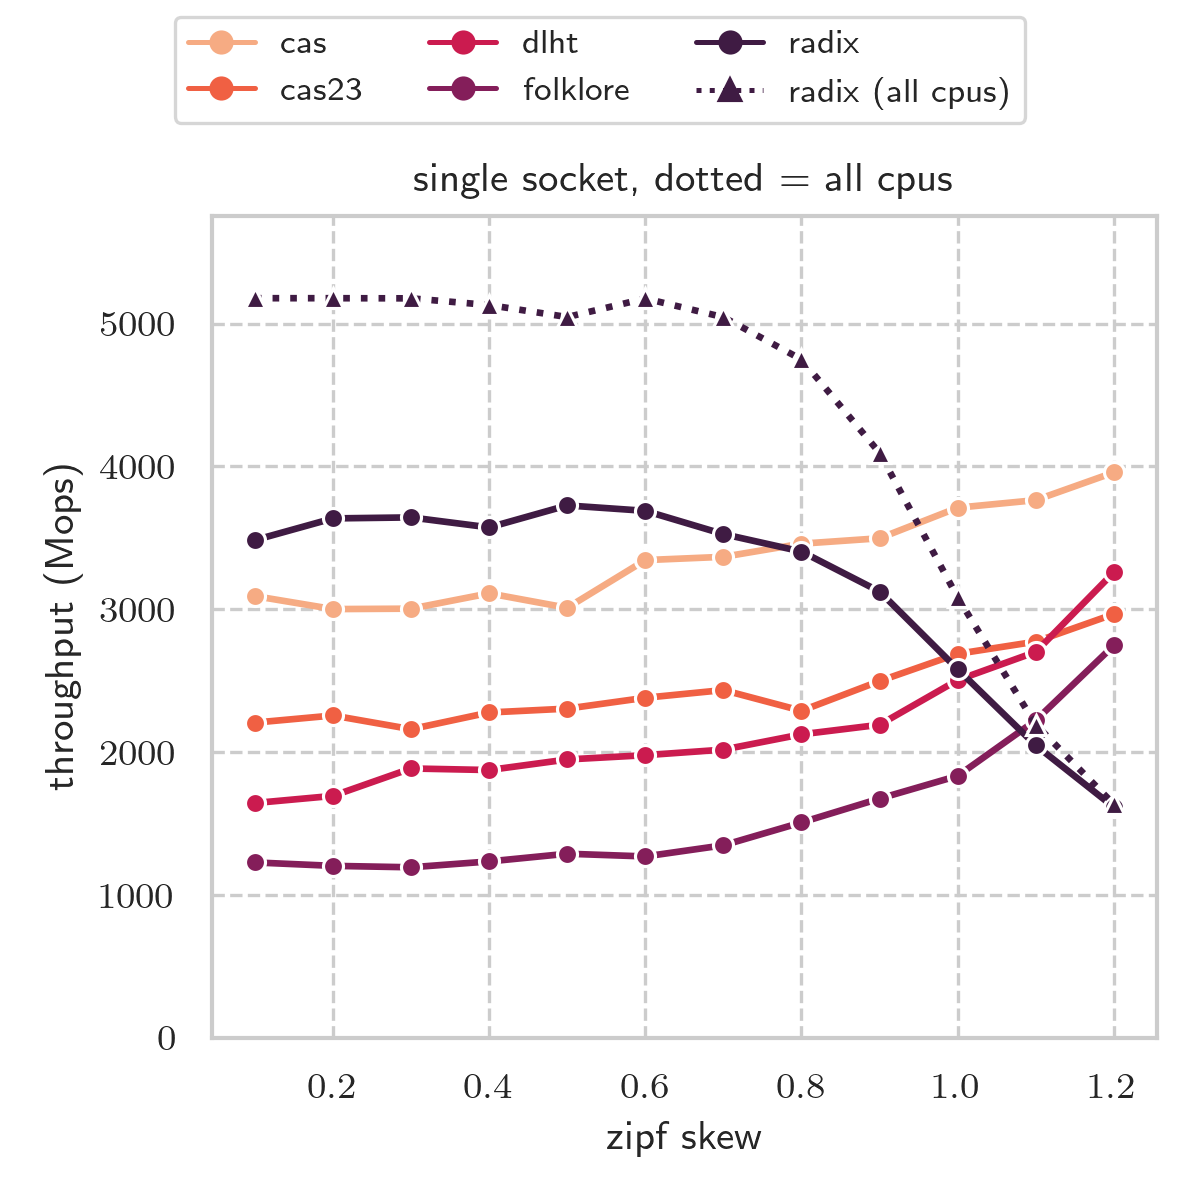
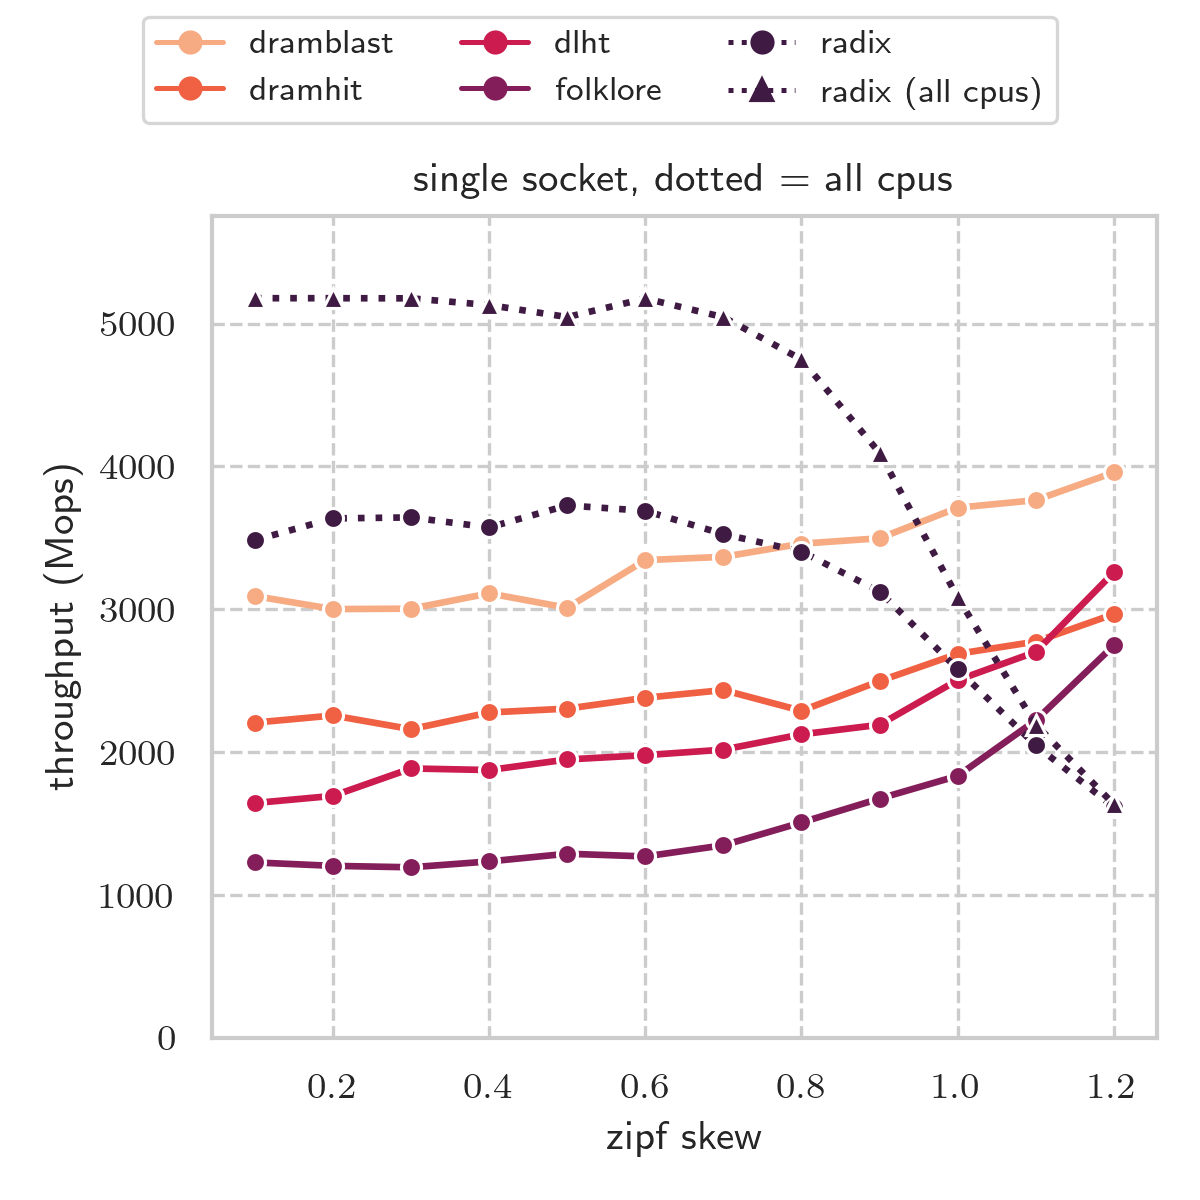
minor plot update for hbm plots

diff --git a/scripts/eurosys_2026/intel_hbm/collect_radix_8gb.py b/scripts/eurosys_2026/intel_hbm/collect_radix_8gb.py
@@ -3,6 +3,8 @@ import re
 import subprocess
 import matplotlib.pyplot as plt
 
+from plot_style import configure_palette, configure_style, get_subplots, tidy
+
 filename = "intel_hbm_single_radix_sweep_8gb"
 build_sz = 8 * int(1024 * 1024 * 1024 / 16)  # 8gb
 
@@ -110,43 +112,34 @@ def run_dramhit_experiments():
             json.dump(experiment_data, json_file, indent=4)
         print(f"\nData successfully saved to {json_filename}")
 
-        plt.figure(figsize=(10, 6))
+        configure_style()
+        palette = configure_palette(3)
 
-        plt.plot(
-            successful_radices,
-            partition_cycles_data,
-            marker="o",
-            linestyle="-",
-            color="r",
-            label="Partition Phase",
-        )
-        plt.plot(
-            successful_radices,
-            join_cycles_data,
-            marker="s",
-            linestyle="-",
-            color="g",
-            label="Join Phase",
-        )
-        plt.plot(
-            successful_radices,
-            total_cycles_data,
-            marker="^",
-            linestyle="-",
-            color="b",
-            label="Total Cycles",
-        )
+        fig, axes = get_subplots(1, 1)
+        ax = axes if not hasattr(axes, "ravel") else axes.ravel()[0]
 
-        plt.title("DRAMHiT: Cycle per Tuple vs Radix (8GB relation, R=S)")
-        plt.xlabel("Radix")
-        plt.ylabel("Cycle per Tuple")
-        plt.xticks(successful_radices)
-        plt.legend(loc="upper left")
-        plt.grid(True, linestyle="--", alpha=0.7)
-        plt.tight_layout()
+        ax.plot(successful_radices, partition_cycles_data, marker="o",
+                linestyle="-", color=palette[0], linewidth=1.6,
+                label="partition phase")
+        ax.plot(successful_radices, join_cycles_data, marker="s",
+                linestyle="-", color=palette[1], linewidth=1.6,
+                label="join phase")
+        ax.plot(successful_radices, total_cycles_data, marker="^",
+                linestyle="--", color=palette[2], linewidth=1.6,
+                label="total")
+
+        ax.set_title("Partition/Join Cycle per Tuple vs Selected Radix")
+        ax.set_xlabel("radix")
+        ax.set_ylabel("cycle per tuple")
+        ax.set_xticks(successful_radices)
+        ax.set_ylim(bottom=0)
+        tidy(ax)
+
+        fig.legend(fontsize=8, loc="upper center", ncol=3)
+        plt.tight_layout(rect=[0, 0, 1, 0.90])
 
         output_filename = filename + ".png"
-        plt.savefig(output_filename)
+        plt.savefig(output_filename, dpi=300)
         print(f"Plot successfully saved to {output_filename}")
 
     else:

diff --git a/scripts/eurosys_2026/intel_hbm/plot_style.py b/scripts/eurosys_2026/intel_hbm/plot_style.py
@@ -23,6 +23,18 @@ from matplotlib.lines import Line2D
 # Plot order, which is also the palette order (rocket runs dark -> light).
 JOIN_ORDER = ["cas", "cas23", "dlht", "folklore", "radix"]
 
+# Internal series names (matching data keys / filenames) -> display names
+# shown in legends. Only the legend text changes; lookups stay on the
+# internal names above.
+DISPLAY_NAMES = {
+    "cas": "dramblast",
+    "cas23": "dramhit",
+}
+
+
+def display_name(name):
+    return DISPLAY_NAMES.get(name, name)
+
 TUPLE_BYTES = 16
 
 # Runs that are a variant of one of the joins above rather than a join of their
@@ -73,9 +85,12 @@ def series_style(name, palette):
     variant = VARIANT_STYLE.get(name)
     base = variant["base"] if variant else name
     colour = palette[JOIN_ORDER.index(base) % len(palette)] if base in JOIN_ORDER else None
+    # Both radix curves (single socket and all cpus) are dotted, told apart by
+    # marker; every other join stays solid.
+    default_linestyle = ":" if base == "radix" else "-"
     return {
         "color": colour,
-        "linestyle": variant["linestyle"] if variant else "-",
+        "linestyle": variant["linestyle"] if variant else default_linestyle,
         "marker": variant["marker"] if variant else "o",
     }
 
@@ -107,7 +122,8 @@ def tidy(ax):
 
 def add_legend(fig, palette, names, ncol=None):
     custom_lines = [
-        Line2D([0], [0], label=name, **series_style(name, palette)) for name in names
+        Line2D([0], [0], label=display_name(name), **series_style(name, palette))
+        for name in names
     ]
     fig.legend(fontsize=8, handles=custom_lines, loc="upper center",
                ncol=ncol or len(names))

diff --git a/scripts/eurosys_2026/inline_analysis/ANALYSIS.md b/scripts/eurosys_2026/inline_analysis/ANALYSIS.md
@@ -217,19 +217,57 @@ still round-trips both cursors through memory at least twice per key
 
 ## 4. Why that matters for performance
 
-Each `store` immediately followed by a dependent `load` of the same address
-(e.g. `43c9b2` store-head then `43c9c3` reload-tail right after, at the
-merged block's boundary) is a **store-to-load-forwarding** round trip:
-several cycles of latency even when it hits the store buffer, and it also
-creates a real (not just apparent) dependency between what should be
-independent per-key iterations. With `HT_TESTS_BATCH_LENGTH` typically in
-the 16–256 range (`include/constants.hpp:17,20`), `bin/no_inline` pays this
-penalty at least twice **per key** (`O(batch_len)` total per `find_batch`
-call), while `bin/inline` pays a fixed cost of 4 memory touches **per call,
-regardless of batch size**. The win scales with batch size, and DRAMHiT is
-specifically tuned to run with large batches to amortize prefetch latency,
-so this is exactly the regime the workload in `instruction.txt` ("a large
-amount of find and insertion occurs via find batch") lives in.
+**This is a constant-per-call vs. linear-per-key difference, not a flat
+"2-3x per `find_batch`".** `bin/inline` touches `find_tail`/`find_head` in
+memory **exactly 4 times total, no matter how many keys are in the batch**
+(2 loads before the loop, 2 stores after — section 2). `bin/no_inline`
+touches them **at least 2-3 times per key**, inside the loop body itself,
+not once per call. So the real per-call ratio is roughly
+`(2-3) x batch_len` extra memory ops vs. a flat `4` — e.g. at
+`batch_len = 32` that is ~64-96 memory touches against 4, not "2-3x." The
+gap widens as `batch_len` grows, it doesn't stay fixed.
+
+`batch_len` itself is **not a compile-time constant fixed by a macro** —
+it's `config.batch_len`, a runtime `Configuration` field
+(`include/types.hpp:161`) that defaults to `HT_TESTS_BATCH_LENGTH`
+(`include/constants.hpp:17,20`, 16 or 256 depending on build config) but is
+overridable at runtime via the `--batch-len` command-line flag
+(`src/Application.cpp:692-693`, `po::value<uint32_t>(&config.batch_len)`) —
+`u.sh` invokes the real binary with `--batch-len 16`, for instance. So the
+size of this effect is a property of how the benchmark is *invoked*, not
+something baked into either binary at compile time; the same `bin/no_inline`
+binary would pay proportionally more of this overhead per call if run with
+a larger `--batch-len` and proportionally less with a smaller one, while
+`bin/inline`'s fixed 4-touch cost per call would not change either way.
+
+**The mechanism is not "a register access is slightly faster than an L1
+hit."** That framing understates it — the raw latency difference between a
+register read and an L1 hit is only a few cycles either way. What actually
+costs time is that each `store` immediately followed by a dependent `load`
+of the same address (e.g. `43c9b2` store-head then `43c9c3` reload-tail
+right after, at the merged block's boundary — section 3) is a
+**store-to-load-forwarding** round trip: a genuine data dependency the core
+must resolve before the reloaded value is available, and because it recurs
+on every key, it chains what should be independent per-key work into a
+serialized dependency across loop iterations. A register value has no
+equivalent handoff cost — it's just wired directly into the next
+instruction with no round trip at all. So the cost isn't a flat
+per-access latency tax; it's a per-key serialization penalty that
+compounds with `batch_len`, which is exactly why this specific
+inefficiency is sensitive to how large a batch the caller asks for.
+
+With `batch_len` in the range DRAMHiT is normally run at (16-256, whether
+from the macro default or an explicit `--batch-len`), `bin/no_inline` pays
+this per-key penalty `O(batch_len)` times per `find_batch` call, while
+`bin/inline` pays a fixed cost of 4 memory touches **per call, regardless of
+batch size**. DRAMHiT is specifically tuned to run with large batches to
+amortize prefetch latency, so this is exactly the regime the workload in
+`instruction.txt` ("a large amount of find and insertion occurs via find
+batch") lives in — and it's also why, when asked earlier whether raising
+`batch_len` further would speed up `bin/inline` specifically, the answer was
+no: `bin/inline`'s 4-touch cost is already independent of `batch_len`, so
+there's nothing left there to amortize; it's `bin/no_inline`'s cost that
+scales with it.
 
 This also explains the earlier size numbers: `bin/inline`'s `find_batch` is
 *smaller* (1037 B vs 1209 B) even though it's faster — the extra bytes in
